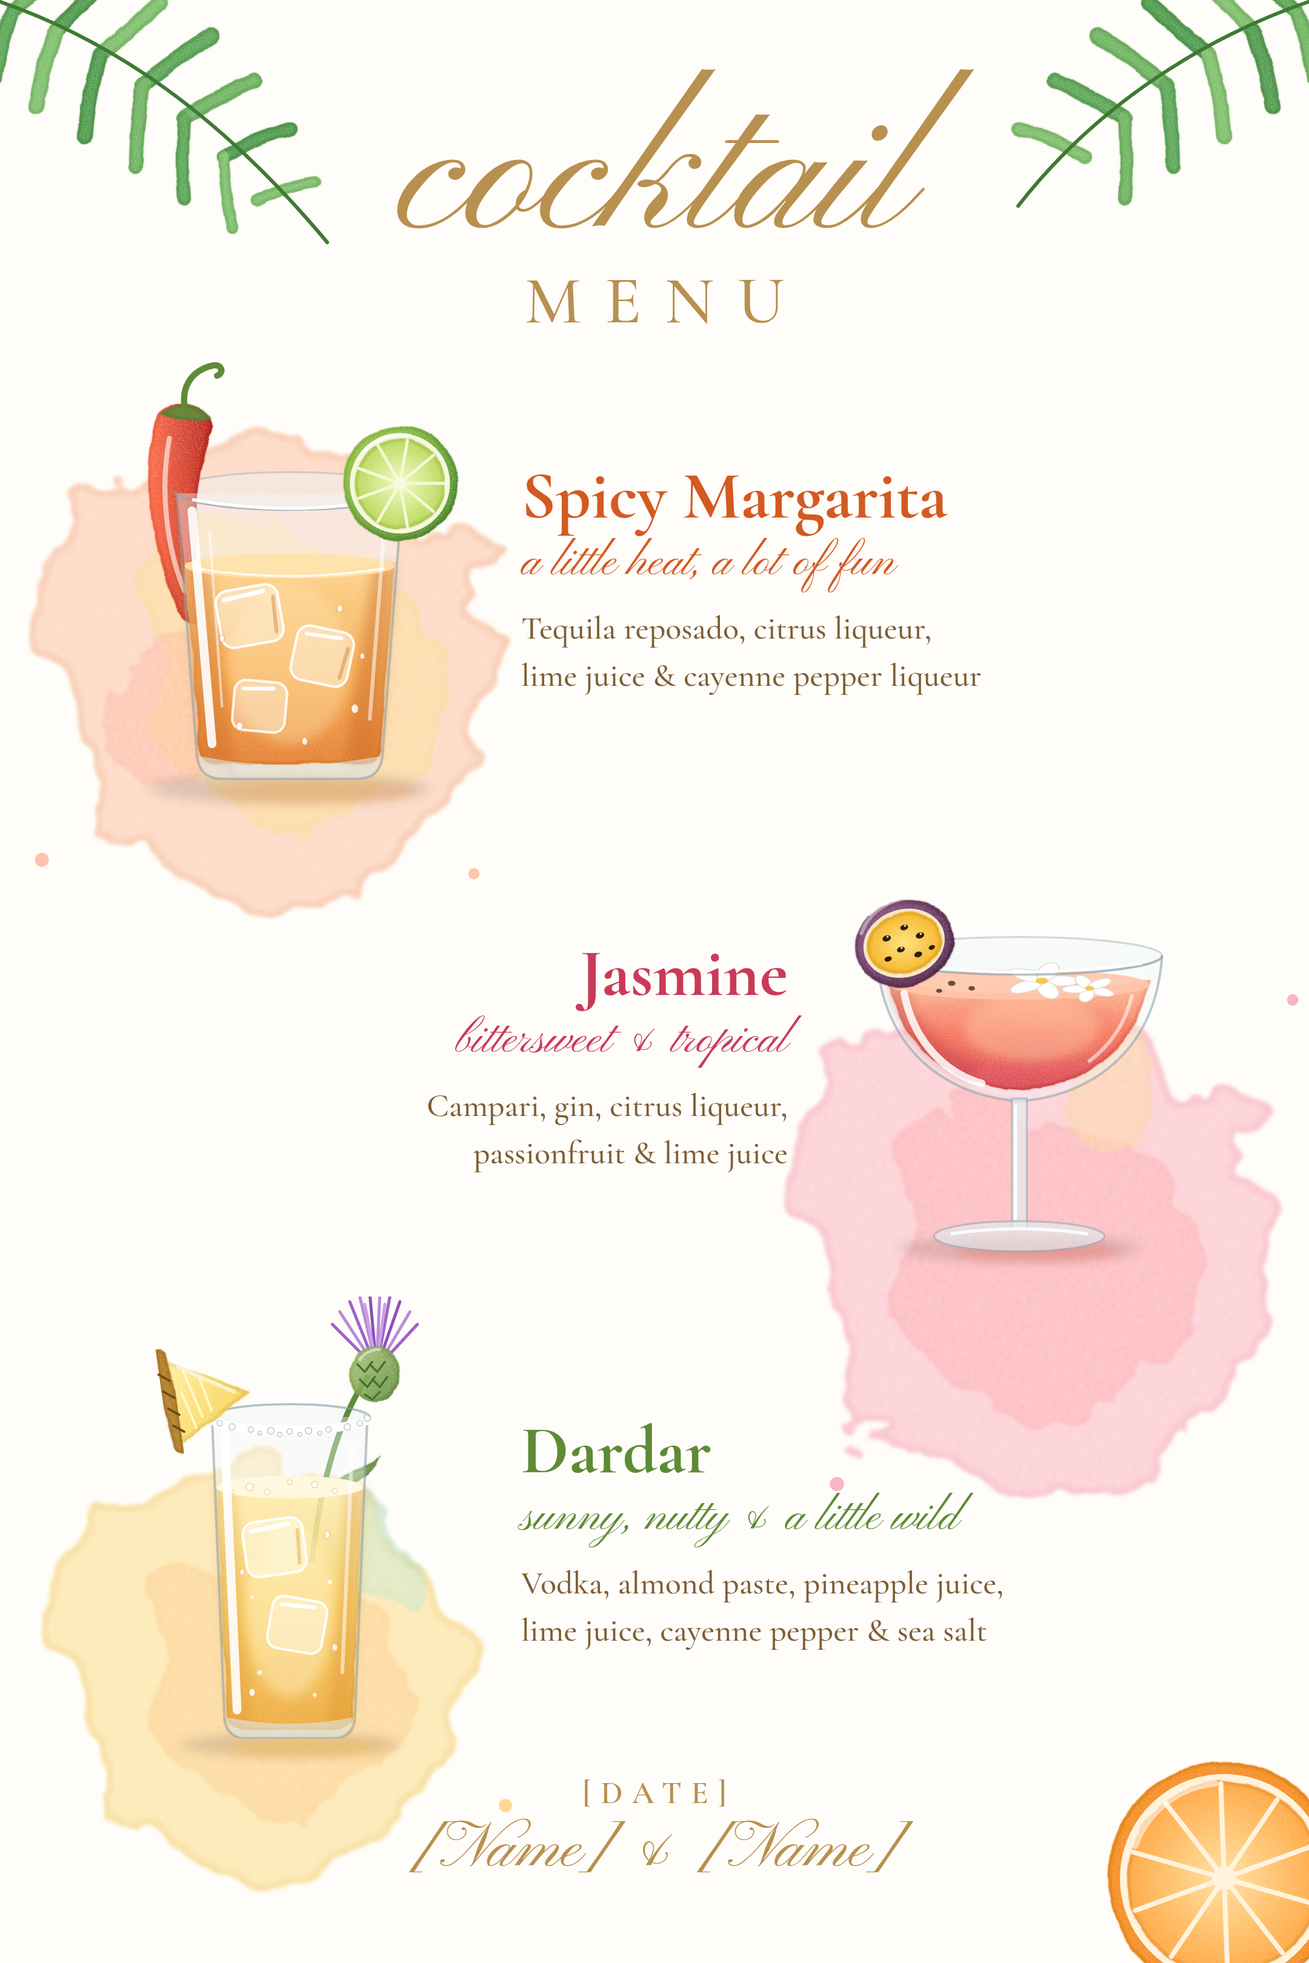
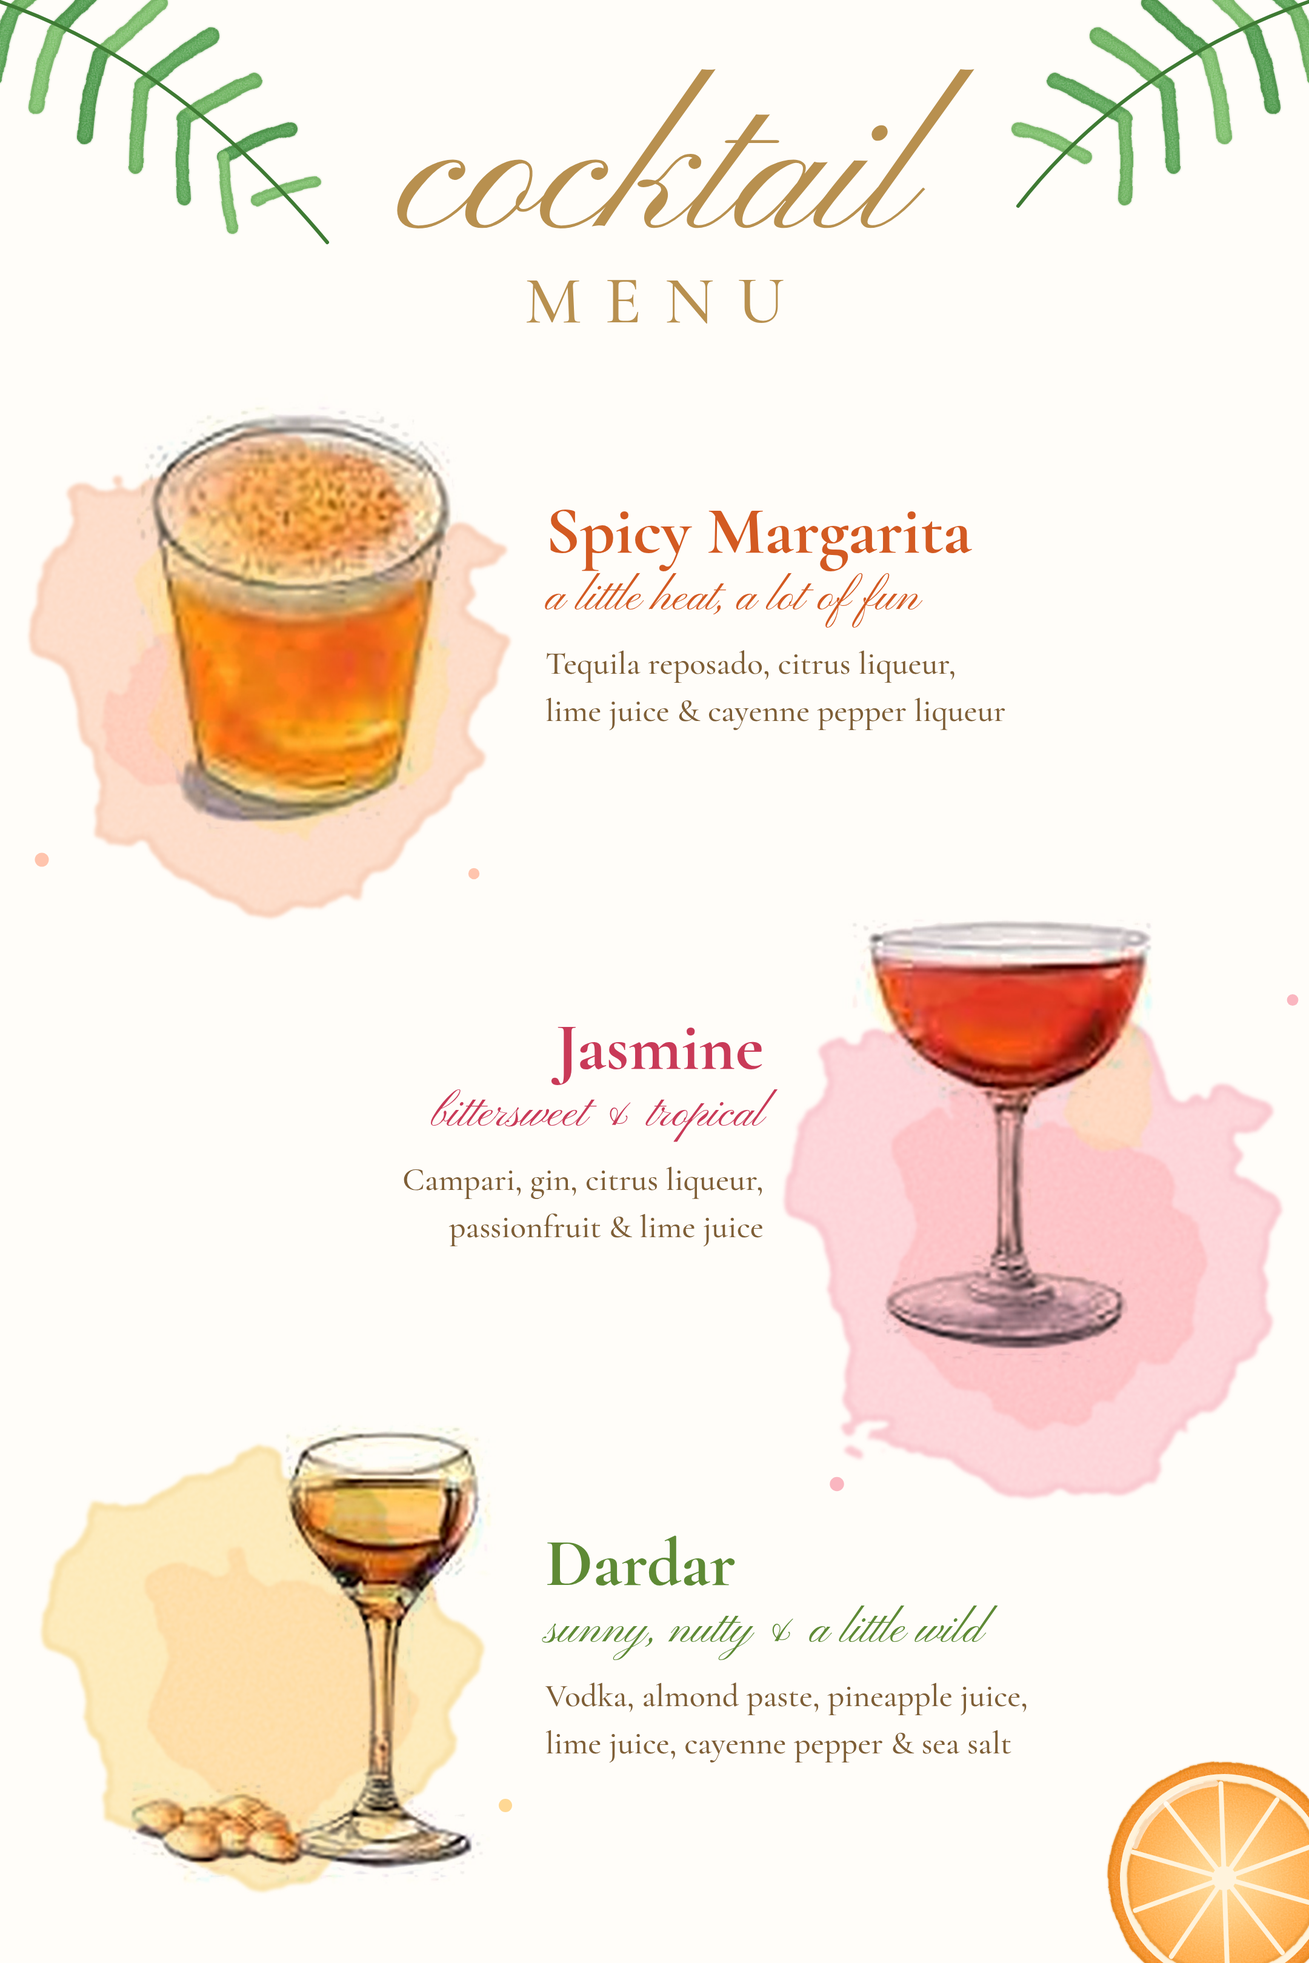
Poster: use painted drink illustrations, drop date and names
Claude-Session: https://claude.ai/code/session_01HYkb5V22HkBGdt4293FLKk

diff --git a/posters/cocktails/poster.html b/posters/cocktails/poster.html
@@ -144,64 +144,7 @@ a{color:#B8904F}a:hover{color:#8C6A3E}
 </header>
 
 <section style="position: relative; display: flex; align-items: center; gap: 36px">
-<svg style="flex-shrink: 0" width="310" height="393" viewBox="0 0 300 380" aria-hidden="true">
-<ellipse cx="150" cy="356" rx="112" ry="12" fill="#6B5B4B" fill-opacity="0.2" filter="url(#soft)"></ellipse>
-<ellipse cx="172" cy="358" rx="80" ry="9" fill="#F0A050" fill-opacity="0.35" filter="url(#soft)"></ellipse>
-<ellipse cx="150" cy="118" rx="92" ry="15" fill="#EEF4F6" fill-opacity="0.4" stroke="#9FB3BC" stroke-opacity="0.5" stroke-width="1.5"></ellipse>
-<path d="M44 58 C 30 110, 40 170, 62 216 C 70 230, 84 224, 82 208 C 70 160, 74 112, 88 70 C 94 52, 52 40, 44 58 Z" fill="url(#gChili)" filter="url(#wc)"></path>
-<path d="M54 76 C 46 118, 52 164, 66 198" stroke="#FFFFFF" stroke-opacity="0.6" stroke-width="4" fill="none" stroke-linecap="round"></path>
-<path d="M46 56 Q66 42 88 60 Q70 66 46 56 Z" fill="#5E8C3A" filter="url(#wc)"></path>
-<path d="M66 50 C 64 34, 72 22, 88 18 C 96 16, 98 24, 92 26" stroke="#5E8C3A" stroke-width="5" fill="none" stroke-linecap="round"></path>
-<path d="M60 120 L66 176 Q150 192 234 176 L240 120 Z" fill="#F2F7F9" fill-opacity="0.4"></path>
-<path d="M66 176 Q150 192 234 176 L222 326 Q220 336 206 336 L94 336 Q80 336 78 326 Z" fill="url(#gAmber)" fill-opacity="0.93" filter="url(#wc)"></path>
-<path d="M66 176 L78 326 Q80 336 94 336 L106 336 L86 180 Z" fill="#C4621F" fill-opacity="0.35" filter="url(#soft)"></path>
-<path d="M234 176 L222 326 Q220 336 206 336 L194 336 L216 180 Z" fill="#C4621F" fill-opacity="0.4" filter="url(#soft)"></path>
-<ellipse cx="150" cy="256" rx="48" ry="64" fill="#FFE6B0" fill-opacity="0.4" filter="url(#soft)"></ellipse>
-<g transform="translate(118 218) rotate(-10)">
-<rect x="-25" y="-23" width="50" height="46" rx="10" fill="#FFF6E6" fill-opacity="0.5" stroke="#FFFFFF" stroke-opacity="0.95" stroke-width="2"></rect>
-<path d="M-18 -16 L14 -18" stroke="#FFFFFF" stroke-width="3.5" stroke-linecap="round"></path>
-<path d="M21 -12 L19 16" stroke="#C9722E" stroke-opacity="0.4" stroke-width="3" stroke-linecap="round"></path>
-</g>
-<g transform="translate(176 250) rotate(12)">
-<rect x="-23" y="-22" width="46" height="44" rx="10" fill="#FFF6E6" fill-opacity="0.45" stroke="#FFFFFF" stroke-opacity="0.9" stroke-width="2"></rect>
-<path d="M-16 -15 L12 -17" stroke="#FFFFFF" stroke-width="3" stroke-linecap="round"></path>
-<path d="M19 -10 L17 14" stroke="#C9722E" stroke-opacity="0.4" stroke-width="3" stroke-linecap="round"></path>
-</g>
-<g transform="translate(126 290) rotate(5)">
-<rect x="-21" y="-20" width="42" height="40" rx="9" fill="#FFF6E6" fill-opacity="0.4" stroke="#FFFFFF" stroke-opacity="0.85" stroke-width="2"></rect>
-<path d="M-14 -13 L10 -15" stroke="#FFFFFF" stroke-width="3" stroke-linecap="round"></path>
-</g>
-<ellipse cx="150" cy="178" rx="84" ry="10" fill="#FFE2A8" fill-opacity="0.9"></ellipse>
-<path d="M74 180 Q150 192 226 180" stroke="#FFFFFF" stroke-opacity="0.75" stroke-width="2" fill="none"></path>
-<path d="M78 330 Q150 344 222 330 L221 336 Q219 348 204 348 L96 348 Q81 348 79 336 Z" fill="#DCE7EB" fill-opacity="0.6"></path>
-<path d="M60 120 L76 330 Q78 348 96 348 L204 348 Q222 348 224 330 L240 120" stroke="#8FA3AD" stroke-opacity="0.6" stroke-width="2" fill="none"></path>
-<path d="M72 134 L88 320" stroke="#FFFFFF" stroke-opacity="0.9" stroke-width="7" stroke-linecap="round"></path>
-<path d="M86 150 L96 290" stroke="#FFFFFF" stroke-opacity="0.55" stroke-width="2" stroke-linecap="round"></path>
-<path d="M226 142 L214 300" stroke="#FFFFFF" stroke-opacity="0.55" stroke-width="3" stroke-linecap="round"></path>
-<g fill="#FFFFFF" fill-opacity="0.85" stroke="#C9722E" stroke-opacity="0.3" stroke-width="0.8">
-<ellipse cx="110" cy="306" rx="2.6" ry="3.4"></ellipse><ellipse cx="190" cy="212" rx="2.2" ry="3"></ellipse><ellipse cx="202" cy="292" rx="2.8" ry="3.6"></ellipse><ellipse cx="96" cy="236" rx="2" ry="2.8"></ellipse><ellipse cx="162" cy="318" rx="2.2" ry="3"></ellipse><ellipse cx="208" cy="250" rx="1.8" ry="2.4"></ellipse>
-</g>
-<path d="M58 118 A92 15 0 0 0 242 118" stroke="#8FA3AD" stroke-opacity="0.65" stroke-width="2" fill="none"></path>
-<path d="M72 125 Q150 139 228 125" stroke="#FFFFFF" stroke-opacity="0.9" stroke-width="2.5" fill="none"></path>
-<g transform="translate(238 112)">
-<circle r="46" fill="url(#gRind)" filter="url(#wc)"></circle>
-<circle r="40" fill="#F6F9DE"></circle>
-<circle r="36" fill="url(#gLime)" filter="url(#wc)"></circle>
-<g stroke="#F4F9D4" stroke-width="2.4" stroke-linecap="round">
-<line x1="0" y1="0" x2="35" y2="0"></line>
-<line x1="0" y1="0" x2="35" y2="0" transform="rotate(40)"></line>
-<line x1="0" y1="0" x2="35" y2="0" transform="rotate(80)"></line>
-<line x1="0" y1="0" x2="35" y2="0" transform="rotate(120)"></line>
-<line x1="0" y1="0" x2="35" y2="0" transform="rotate(160)"></line>
-<line x1="0" y1="0" x2="35" y2="0" transform="rotate(200)"></line>
-<line x1="0" y1="0" x2="35" y2="0" transform="rotate(240)"></line>
-<line x1="0" y1="0" x2="35" y2="0" transform="rotate(280)"></line>
-<line x1="0" y1="0" x2="35" y2="0" transform="rotate(320)"></line>
-</g>
-<circle r="5" fill="#F6F9DE"></circle>
-<path d="M-30 -24 A38 38 0 0 1 8 -38" stroke="#FFFFFF" stroke-opacity="0.7" stroke-width="3" fill="none" stroke-linecap="round"></path>
-</g>
-</svg>
+<img src="images/margarita.jpg" alt="Spicy Margarita in a rocks glass" style="flex-shrink: 0; width: 330px; height: 400px; object-fit: contain; mix-blend-mode: multiply">
 <div style="display: flex; flex-direction: column; gap: 8px; max-width: 520px">
 <h2 style="margin: 0; font-size: 56px; font-weight: 700; line-height: 1; color: #D35A22">Spicy Margarita</h2>
 <div style="font-family: 'Pinyon Script', cursive; font-size: 38px; line-height: 1.1; color: #D35A22">a little heat, a lot of fun</div>
@@ -210,50 +153,7 @@ a{color:#B8904F}a:hover{color:#8C6A3E}
 </section>
 
 <section style="position: relative; display: flex; flex-direction: row-reverse; align-items: center; gap: 36px">
-<svg style="flex-shrink: 0" width="310" height="393" viewBox="0 0 300 380" aria-hidden="true">
-<ellipse cx="150" cy="342" rx="96" ry="11" fill="#6B5B4B" fill-opacity="0.2" filter="url(#soft)"></ellipse>
-<ellipse cx="164" cy="344" rx="66" ry="8" fill="#F2644E" fill-opacity="0.3" filter="url(#soft)"></ellipse>
-<ellipse cx="150" cy="108" rx="114" ry="15" fill="#EEF4F6" fill-opacity="0.4" stroke="#9FB3BC" stroke-opacity="0.5" stroke-width="1.5"></ellipse>
-<path d="M36 108 C 42 196, 108 222, 150 224 C 192 222, 258 196, 264 108 Z" fill="#F2F7F9" fill-opacity="0.35"></path>
-<path d="M46 128 Q150 148 254 128 C 244 192, 190 214, 150 215 C 110 214, 56 192, 46 128 Z" fill="url(#gCoral)" fill-opacity="0.93" filter="url(#wc)"></path>
-<path d="M46 128 C 52 170, 80 196, 112 208 L118 196 C 90 184, 66 162, 60 134 Z" fill="#B82A3A" fill-opacity="0.35" filter="url(#soft)"></path>
-<ellipse cx="160" cy="166" rx="54" ry="26" fill="#FFC9A8" fill-opacity="0.45" filter="url(#soft)"></ellipse>
-<ellipse cx="150" cy="131" rx="104" ry="12" fill="#FFC7AA" fill-opacity="0.9"></ellipse>
-<g fill="#3A2418" fill-opacity="0.75"><ellipse cx="96" cy="130" rx="3" ry="2"></ellipse><ellipse cx="112" cy="134" rx="2.6" ry="1.8"></ellipse><ellipse cx="86" cy="136" rx="2.4" ry="1.6"></ellipse></g>
-<g transform="translate(168 128) scale(1 0.5)">
-<ellipse cx="15" cy="0" rx="15" ry="8" fill="#FFFFFF" stroke="#E9D9CC" stroke-width="1.2"></ellipse>
-<ellipse cx="15" cy="0" rx="15" ry="8" fill="#FFFFFF" stroke="#E9D9CC" stroke-width="1.2" transform="rotate(72)"></ellipse>
-<ellipse cx="15" cy="0" rx="15" ry="8" fill="#FFFFFF" stroke="#E9D9CC" stroke-width="1.2" transform="rotate(144)"></ellipse>
-<ellipse cx="15" cy="0" rx="15" ry="8" fill="#FFFFFF" stroke="#E9D9CC" stroke-width="1.2" transform="rotate(216)"></ellipse>
-<ellipse cx="15" cy="0" rx="15" ry="8" fill="#FFFFFF" stroke="#E9D9CC" stroke-width="1.2" transform="rotate(288)"></ellipse>
-<circle r="5" fill="#F4C84A"></circle>
-</g>
-<g transform="translate(206 134) scale(1 0.5) rotate(30)">
-<ellipse cx="11" cy="0" rx="11" ry="6" fill="#FFFFFF" stroke="#E9D9CC" stroke-width="1.2"></ellipse>
-<ellipse cx="11" cy="0" rx="11" ry="6" fill="#FFFFFF" stroke="#E9D9CC" stroke-width="1.2" transform="rotate(72)"></ellipse>
-<ellipse cx="11" cy="0" rx="11" ry="6" fill="#FFFFFF" stroke="#E9D9CC" stroke-width="1.2" transform="rotate(144)"></ellipse>
-<ellipse cx="11" cy="0" rx="11" ry="6" fill="#FFFFFF" stroke="#E9D9CC" stroke-width="1.2" transform="rotate(216)"></ellipse>
-<ellipse cx="11" cy="0" rx="11" ry="6" fill="#FFFFFF" stroke="#E9D9CC" stroke-width="1.2" transform="rotate(288)"></ellipse>
-<circle r="3.6" fill="#F4C84A"></circle>
-</g>
-<path d="M36 108 C 42 196, 108 222, 150 224 C 192 222, 258 196, 264 108" stroke="#8FA3AD" stroke-opacity="0.6" stroke-width="2" fill="none"></path>
-<path d="M58 138 C 66 178, 92 202, 120 210" stroke="#FFFFFF" stroke-opacity="0.85" stroke-width="6" fill="none" stroke-linecap="round"></path>
-<path d="M240 140 C 234 164, 222 180, 206 192" stroke="#FFFFFF" stroke-opacity="0.55" stroke-width="3" fill="none" stroke-linecap="round"></path>
-<path d="M144 222 L144 326 L156 326 L156 222 Z" fill="#E4EDF0" fill-opacity="0.7" stroke="#8FA3AD" stroke-opacity="0.55" stroke-width="1.5"></path>
-<path d="M147 228 L147 318" stroke="#FFFFFF" stroke-opacity="0.9" stroke-width="2.5" stroke-linecap="round"></path>
-<ellipse cx="150" cy="332" rx="68" ry="12" fill="#E4EDF0" fill-opacity="0.65" stroke="#8FA3AD" stroke-opacity="0.55" stroke-width="1.5"></ellipse>
-<path d="M96 330 Q150 322 204 330" stroke="#FFFFFF" stroke-opacity="0.85" stroke-width="2.5" fill="none" stroke-linecap="round"></path>
-<path d="M36 108 A114 15 0 0 0 264 108" stroke="#8FA3AD" stroke-opacity="0.65" stroke-width="2" fill="none"></path>
-<path d="M52 114 Q150 128 248 114" stroke="#FFFFFF" stroke-opacity="0.9" stroke-width="2.5" fill="none"></path>
-<g transform="translate(58 98) rotate(-18)">
-<ellipse rx="40" ry="34" fill="url(#gPassion)" filter="url(#wc)"></ellipse>
-<ellipse rx="33" ry="27" fill="#F6E9C8"></ellipse>
-<ellipse rx="30" ry="24" fill="url(#gPulp)" filter="url(#wc)"></ellipse>
-<g fill="#2E1A10"><ellipse cx="-12" cy="-8" rx="3.4" ry="2.4"></ellipse><ellipse cx="4" cy="-12" rx="3.2" ry="2.2"></ellipse><ellipse cx="14" cy="-2" rx="3.4" ry="2.4"></ellipse><ellipse cx="-4" cy="4" rx="3.2" ry="2.2"></ellipse><ellipse cx="-16" cy="8" rx="3" ry="2"></ellipse><ellipse cx="8" cy="12" rx="3.2" ry="2.2"></ellipse><ellipse cx="20" cy="10" rx="2.6" ry="1.8"></ellipse></g>
-<g fill="#FFFFFF" fill-opacity="0.8"><circle cx="-11" cy="-9" r="0.9"></circle><circle cx="5" cy="-13" r="0.9"></circle><circle cx="15" cy="-3" r="0.9"></circle><circle cx="-3" cy="3" r="0.9"></circle></g>
-<path d="M-30 -18 A40 34 0 0 1 10 -34" stroke="#FFFFFF" stroke-opacity="0.45" stroke-width="3" fill="none" stroke-linecap="round"></path>
-</g>
-</svg>
+<img src="images/jasmine.jpg" alt="Jasmine in a coupe glass" style="flex-shrink: 0; width: 330px; height: 400px; object-fit: contain; mix-blend-mode: multiply">
 <div style="display: flex; flex-direction: column; align-items: flex-end; gap: 8px; max-width: 520px; text-align: right">
 <h2 style="margin: 0; font-size: 56px; font-weight: 700; line-height: 1; color: #C93A58">Jasmine</h2>
 <div style="font-family: 'Pinyon Script', cursive; font-size: 38px; line-height: 1.1; color: #C93A58">bittersweet &amp; tropical</div>
@@ -262,55 +162,7 @@ a{color:#B8904F}a:hover{color:#8C6A3E}
 </section>
 
 <section style="position: relative; display: flex; align-items: center; gap: 36px">
-<svg style="flex-shrink: 0" width="310" height="393" viewBox="0 0 300 380" aria-hidden="true">
-<ellipse cx="150" cy="358" rx="88" ry="10" fill="#6B5B4B" fill-opacity="0.2" filter="url(#soft)"></ellipse>
-<ellipse cx="164" cy="360" rx="62" ry="8" fill="#F5B83A" fill-opacity="0.35" filter="url(#soft)"></ellipse>
-<ellipse cx="150" cy="96" rx="62" ry="10" fill="#EEF4F6" fill-opacity="0.4" stroke="#9FB3BC" stroke-opacity="0.5" stroke-width="1.5"></ellipse>
-<path d="M168 210 C 174 150, 190 96, 212 64" stroke="#5E8C3A" stroke-width="4.5" fill="none" stroke-linecap="round"></path>
-<path d="M184 150 C 196 138, 212 138, 222 128 C 214 146, 200 152, 184 150 Z" fill="#6E9A4A" filter="url(#wc)"></path>
-<g stroke-linecap="round" stroke-width="2.4">
-<path d="M214 44 L198 4" stroke="#9E62C9"></path><path d="M216 42 L206 0" stroke="#B98BD8"></path><path d="M218 42 L214 -2" stroke="#8E4FB8"></path><path d="M220 42 L222 -2" stroke="#B98BD8"></path><path d="M222 43 L230 0" stroke="#9E62C9"></path><path d="M224 44 L238 4" stroke="#8E4FB8"></path><path d="M226 46 L246 12" stroke="#B98BD8"></path><path d="M212 46 L190 12" stroke="#B98BD8"></path><path d="M210 48 L184 22" stroke="#9E62C9"></path><path d="M228 48 L252 22" stroke="#9E62C9"></path><path d="M217 43 L210 6" stroke="#C9A2E4"></path><path d="M221 43 L226 6" stroke="#C9A2E4"></path>
-</g>
-<ellipse cx="218" cy="62" rx="20" ry="22" fill="url(#gBulb)" filter="url(#wc)"></ellipse>
-<path d="M204 54 L210 60 L216 52 M214 54 L220 60 L226 52 M206 66 L212 72 L218 64 M216 66 L222 72 L228 64 M210 78 L216 82 L222 76" stroke="#46702C" stroke-width="1.6" fill="none" stroke-linecap="round"></path>
-<path d="M206 50 A20 22 0 0 1 222 42" stroke="#FFFFFF" stroke-opacity="0.5" stroke-width="2.5" fill="none" stroke-linecap="round"></path>
-<path d="M88 96 L91 150 Q150 162 209 150 L212 96 Z" fill="#F2F7F9" fill-opacity="0.4"></path>
-<path d="M91 150 Q150 162 209 150 L200 336 Q198 346 186 346 L114 346 Q102 346 100 336 Z" fill="url(#gGold)" fill-opacity="0.95" filter="url(#wc)"></path>
-<path d="M91 150 L100 336 Q102 346 114 346 L120 346 L106 154 Z" fill="#D98A20" fill-opacity="0.3" filter="url(#soft)"></path>
-<path d="M209 150 L200 336 Q198 346 186 346 L180 346 L196 154 Z" fill="#D98A20" fill-opacity="0.35" filter="url(#soft)"></path>
-<ellipse cx="150" cy="250" rx="34" ry="70" fill="#FFF4C8" fill-opacity="0.45" filter="url(#soft)"></ellipse>
-<g transform="translate(138 200) rotate(-8)">
-<rect x="-24" y="-22" width="48" height="44" rx="10" fill="#FFFBEA" fill-opacity="0.5" stroke="#FFFFFF" stroke-opacity="0.95" stroke-width="2"></rect>
-<path d="M-17 -15 L13 -17" stroke="#FFFFFF" stroke-width="3.5" stroke-linecap="round"></path>
-<path d="M20 -11 L18 15" stroke="#D98A20" stroke-opacity="0.35" stroke-width="3" stroke-linecap="round"></path>
-</g>
-<g transform="translate(156 262) rotate(10)">
-<rect x="-22" y="-21" width="44" height="42" rx="9" fill="#FFFBEA" fill-opacity="0.45" stroke="#FFFFFF" stroke-opacity="0.9" stroke-width="2"></rect>
-<path d="M-15 -14 L11 -16" stroke="#FFFFFF" stroke-width="3" stroke-linecap="round"></path>
-</g>
-<ellipse cx="150" cy="152" rx="59" ry="9" fill="#FFF8DE"></ellipse>
-<g fill="#FFFFFF" stroke="#EBD9A6" stroke-width="0.8"><circle cx="118" cy="152" r="3"></circle><circle cx="132" cy="156" r="2.2"></circle><circle cx="170" cy="150" r="2.6"></circle><circle cx="186" cy="155" r="2"></circle><circle cx="150" cy="148" r="1.8"></circle><circle cx="104" cy="156" r="1.6"></circle></g>
-<g fill="#FFFFFF" fill-opacity="0.75"><circle cx="126" cy="300" r="2"></circle><circle cx="170" cy="318" r="1.6"></circle><circle cx="182" cy="228" r="1.8"></circle><circle cx="120" cy="240" r="1.4"></circle></g>
-<path d="M88 96 L98 338 Q100 352 114 352 L186 352 Q200 352 202 338 L212 96" stroke="#8FA3AD" stroke-opacity="0.6" stroke-width="2" fill="none"></path>
-<path d="M100 336 Q150 346 200 336 L199 340 Q197 352 186 352 L114 352 Q103 352 101 340 Z" fill="#DCE7EB" fill-opacity="0.6"></path>
-<path d="M98 110 L108 330" stroke="#FFFFFF" stroke-opacity="0.9" stroke-width="7" stroke-linecap="round"></path>
-<path d="M200 118 L192 300" stroke="#FFFFFF" stroke-opacity="0.55" stroke-width="3" stroke-linecap="round"></path>
-<g fill="#FFFFFF" fill-opacity="0.85" stroke="#D98A20" stroke-opacity="0.3" stroke-width="0.8">
-<ellipse cx="120" cy="316" rx="2.4" ry="3.2"></ellipse><ellipse cx="186" cy="280" rx="2.2" ry="3"></ellipse><ellipse cx="180" cy="190" rx="2" ry="2.8"></ellipse><ellipse cx="112" cy="220" rx="1.8" ry="2.4"></ellipse>
-</g>
-<path d="M86 96 A62 10 0 0 0 214 96" stroke="#FFFFFF" stroke-width="7" fill="none" stroke-linecap="round"></path>
-<g fill="#FFFFFF" stroke="#C3CACE" stroke-width="0.8">
-<circle cx="212" cy="97" r="2.6"></circle><circle cx="206" cy="101" r="2.2"></circle><circle cx="196" cy="104" r="2.6"></circle><circle cx="181" cy="106" r="2.2"></circle><circle cx="165" cy="107" r="2.6"></circle><circle cx="150" cy="107.5" r="2.2"></circle><circle cx="135" cy="107" r="2.6"></circle><circle cx="119" cy="106" r="2.2"></circle><circle cx="104" cy="104" r="2.6"></circle><circle cx="94" cy="101" r="2.2"></circle><circle cx="88" cy="97" r="2.6"></circle><circle cx="158" cy="110" r="1.6"></circle><circle cx="142" cy="110" r="1.8"></circle><circle cx="126" cy="109" r="1.5"></circle><circle cx="174" cy="109" r="1.6"></circle>
-</g>
-<path d="M86 96 A62 10 0 0 1 214 96" stroke="#8FA3AD" stroke-opacity="0.5" stroke-width="1.5" fill="none"></path>
-<g transform="translate(78 94) rotate(-8)">
-<path d="M-26 -50 L42 -12 L-18 22 Z" fill="url(#gPine)" filter="url(#wc)"></path>
-<path d="M-26 -50 L-18 22" stroke="#B07A28" stroke-width="12" stroke-linecap="round" filter="url(#wc)"></path>
-<path d="M-28 -36 L-20 -30 M-26 -22 L-18 -16 M-24 -8 L-16 -2 M-22 6 L-14 12" stroke="#6E4A14" stroke-width="1.8" stroke-linecap="round"></path>
-<path d="M-8 -36 L2 2 M4 -28 L10 -2 M-12 -20 L-4 10" stroke="#FFF8C8" stroke-width="2" stroke-linecap="round"></path>
-<path d="M-12 -40 L30 -14" stroke="#FFFFFF" stroke-opacity="0.6" stroke-width="3" stroke-linecap="round"></path>
-</g>
-</svg>
+<img src="images/dardar.jpg" alt="Dardar in a stemmed glass with almonds" style="flex-shrink: 0; width: 330px; height: 400px; object-fit: contain; mix-blend-mode: multiply">
 <div style="display: flex; flex-direction: column; gap: 8px; max-width: 520px">
 <h2 style="margin: 0; font-size: 56px; font-weight: 700; line-height: 1; color: #5E8A35">Dardar</h2>
 <div style="font-family: 'Pinyon Script', cursive; font-size: 38px; line-height: 1.1; color: #5E8A35">sunny, nutty &amp; a little wild</div>
@@ -318,10 +170,6 @@ a{color:#B8904F}a:hover{color:#8C6A3E}
 </div>
 </section>
 
-<footer style="position: relative; display: flex; flex-direction: column; align-items: center; gap: 0; text-align: center; color: #B8904F">
-<div style="font-size: 26px; font-weight: 600; letter-spacing: 0.3em; padding-left: 0.3em">[DATE]</div>
-<div style="font-family: 'Pinyon Script', cursive; font-size: 54px; line-height: 1.2">[Name] &amp; [Name]</div>
-</footer>
 
 </div>
 </body>
